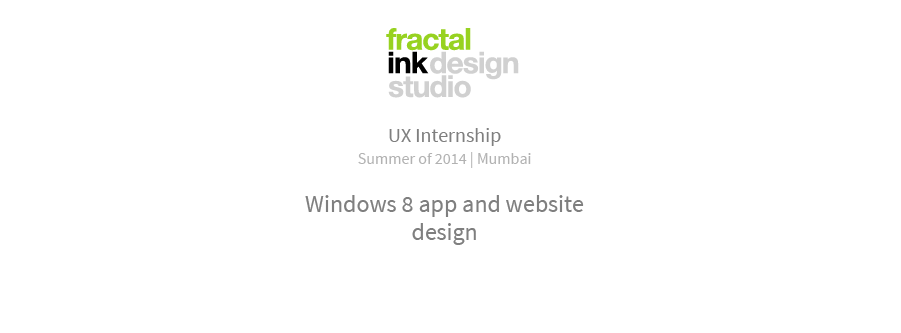
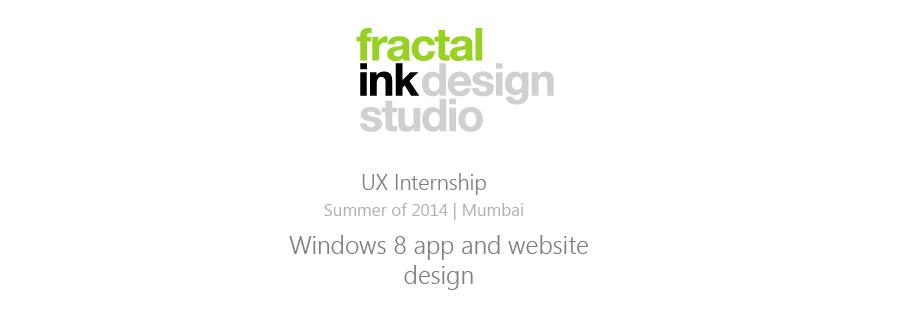
Signed-off-by: dipendra-n <dnamdeo93@gmail.com>

diff --git a/3_fractal.html b/3_fractal.html
@@ -116,7 +116,7 @@
                     <p>
 
 
-        <img src="img/projects/fractal/fractal_1.png" alt="">
+        <img src="img/projects/fractal/fractal_1.png" class="img-responsive">
     <br>
 <b>About</b><br>
 As part of the 2 month summer Internship at Fractal Ink, I worked primarily on Windows 8 applications and some website designs. Fractal Ink has won various awards from Kyoorius, Confederation of Indian Industry (CII) and has been recognized as India’s best UX Design Studio by the Pool Magazine.<br><br>
@@ -127,25 +127,9 @@ Tools used primarily included Adobe Photoshop, Illustrator. <br><br>
 <b>Client:</b> Artist Aloud, Hungama Digital Media<br>
 <b>Project Specification:</b> Windows 8 mobile app design for Artist aloud, a digital distribution platform for unreleased music created by artists. Deliverables included User Flows, wireframes, UI mockups <br>
 
-        <img src="img/projects/fractal/fractal_2.png" alt="">
-    <br>
-<i>Panoramic screen view of hungama digital media’s artist aloud windows 8 mobile app.</i> <br>
-    
-        <img src="img/projects/fractal/fractal_3.png" alt="">
-        <br><br><br><br>
-<b>Client:</b> McGraw Hill Education<br>
-<b>Project Specification:</b> Windows 8 tablet app design for an IIT JEE preparation app. Deliverables included wireframes, UI mockups. <br>
-    
-        <img src="img/projects/fractal/fractal_4.png" alt="">
-    <br>
-<i>Panoramic screen view of McGraw Hill’s IIT JEE Windows 8 tablet app. </i><br><br><br>
-<b>Client: </b>EventFAQs<br>
-<b>Project Specification: </b>Website redesign for an online platform focused on the event and entertainment industry. Deliverables included UI mockups. <br>
-    
-        <img src="img/projects/fractal/fractal_5.png" alt="">
-    <br>
-  <i>  Landing page of the EventFAQs website</i> <br><br>
-          To comply with the non diclosure agreement, some information has been supressed and a few additional projects have not been published here.<br>
+        <img src="img/projects/fractal/fractal_2.png" class="img-responsive">
+    <br><br>
+          To comply with the non diclosure agreement, some a few additional projects with Godrej and CRMNext have not been published here. Feel free to reach out to me in person to know more. <br>
         </p>
 
 
